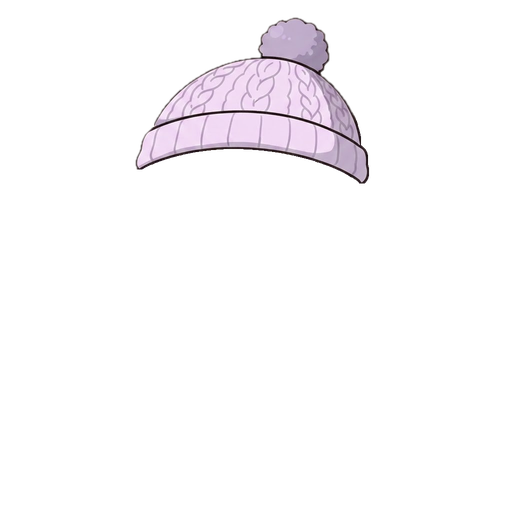
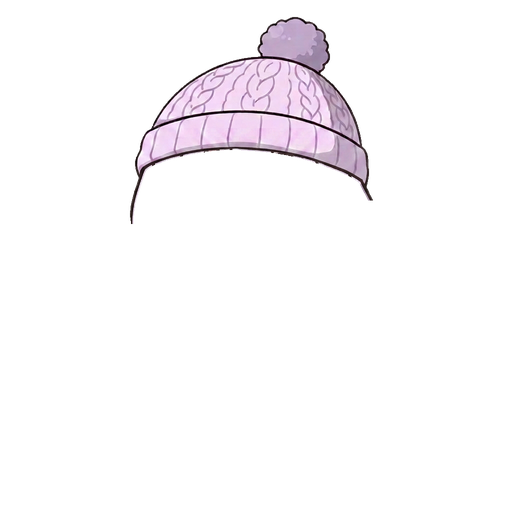
Reshape the beanie and give the boy his own
Re-rendered from test_beanie_2.png (girl) and test_beanie_male_2.png (boy).
The new hat is a little trimmer than the one it replaces, and the boy no
longer borrows the girl's: hers was drawn to her wider hairline and sat
loose on him.

The closet icon is deliberately unchanged — process_item.py rewrites
icon_<name>.png as a side effect of extracting the layer, so the original
was restored after each run.

Still no hair mask on either layer, which is correct: the knit is lavender
in its own right, and its matches against the base come in pieces far under
the 400px seed floor.

diff --git a/web/index.html b/web/index.html
@@ -16,7 +16,7 @@
 <meta name="apple-mobile-web-app-title" content="Moodmate">
 <link rel="manifest" href="manifest.webmanifest">
 <link rel="apple-touch-icon" href="assets/appicon-192.png">
-<link rel="stylesheet" href="styles.css?v=48f2f7629a">
+<link rel="stylesheet" href="styles.css?v=f8b2c5704d">
 <script>
   /* Runs before first paint, so a chosen theme doesn't arrive a frame late as
      a white flash. app.js reads the same key and owns it from there. */
@@ -159,7 +159,7 @@
 
 <div class="lightbox" id="lightbox" hidden></div>
 
-<script src="i18n.js?v=48f2f7629a"></script>
-<script src="app.js?v=48f2f7629a"></script>
+<script src="i18n.js?v=f8b2c5704d"></script>
+<script src="app.js?v=f8b2c5704d"></script>
 </body>
 </html>

diff --git a/web/sw.js b/web/sw.js
@@ -5,7 +5,7 @@
 // Stamped by export_web.py from a hash of the built assets. It must change
 // whenever any asset does, because the image rule below is cache-first and a
 // cache keyed by a constant name is never invalidated.
-const CACHE = "moodmate-48f2f7629a";
+const CACHE = "moodmate-f8b2c5704d";
 const SHELL = [
   ".", "index.html", "styles.css", "app.js",
   "manifest.webmanifest", "assets/items.json",
